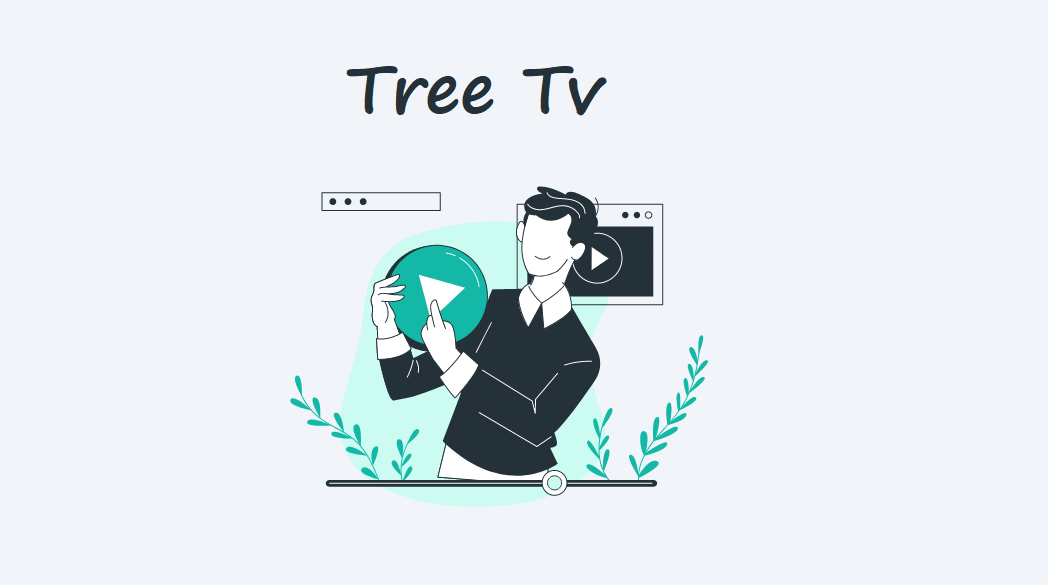
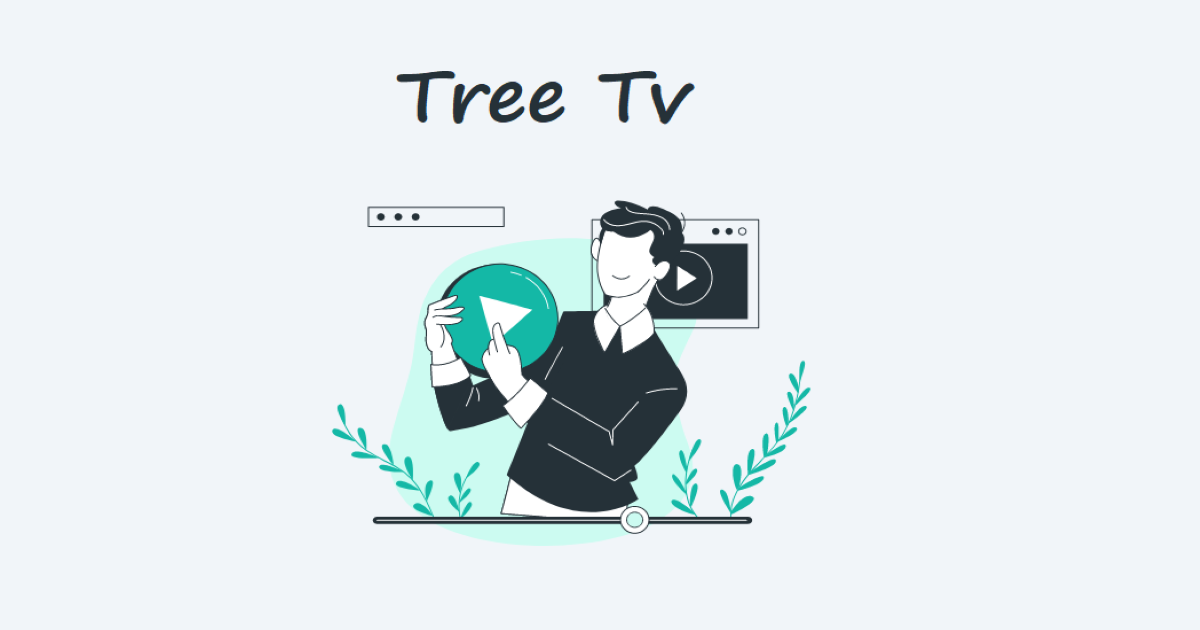
misc: OG imgae

diff --git a/public/index.html b/public/index.html
@@ -14,8 +14,8 @@
         />
         <link rel="icon" href="%PUBLIC_URL%/logo.png" />
         <meta property="og:image" content="%PUBLIC_URL%/OGImage.png" />
-        <meta property="og:image:width" content="1048" />
-        <meta property="og:image:height" content="585" />
+        <meta property="og:image:width" content="1200" />
+        <meta property="og:image:height" content="630" />
         <meta property="og:image:type" content="image/png" />
         <meta property="og:type" content="website" />
         <meta property="og:url" content="https://tree-tv.vercel.app/" />
